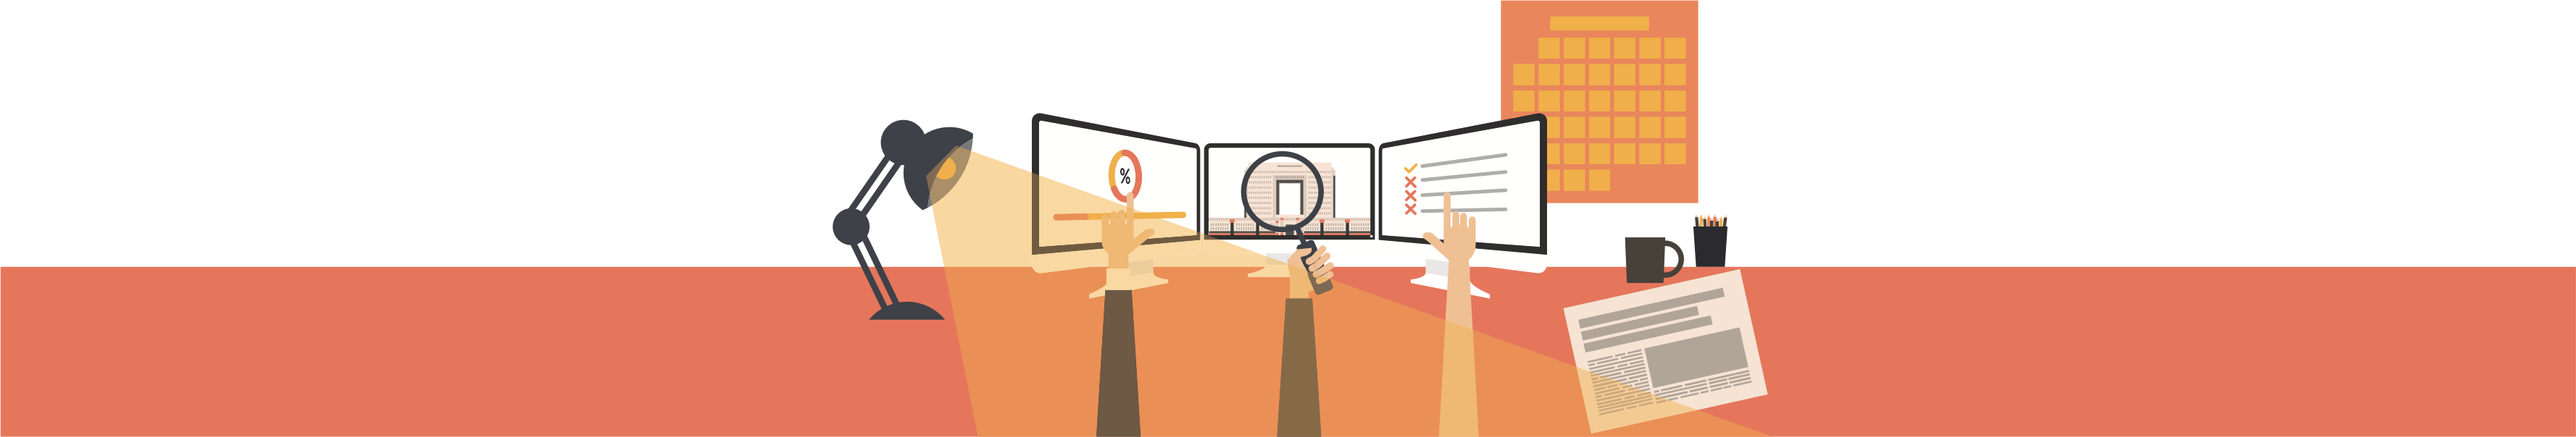
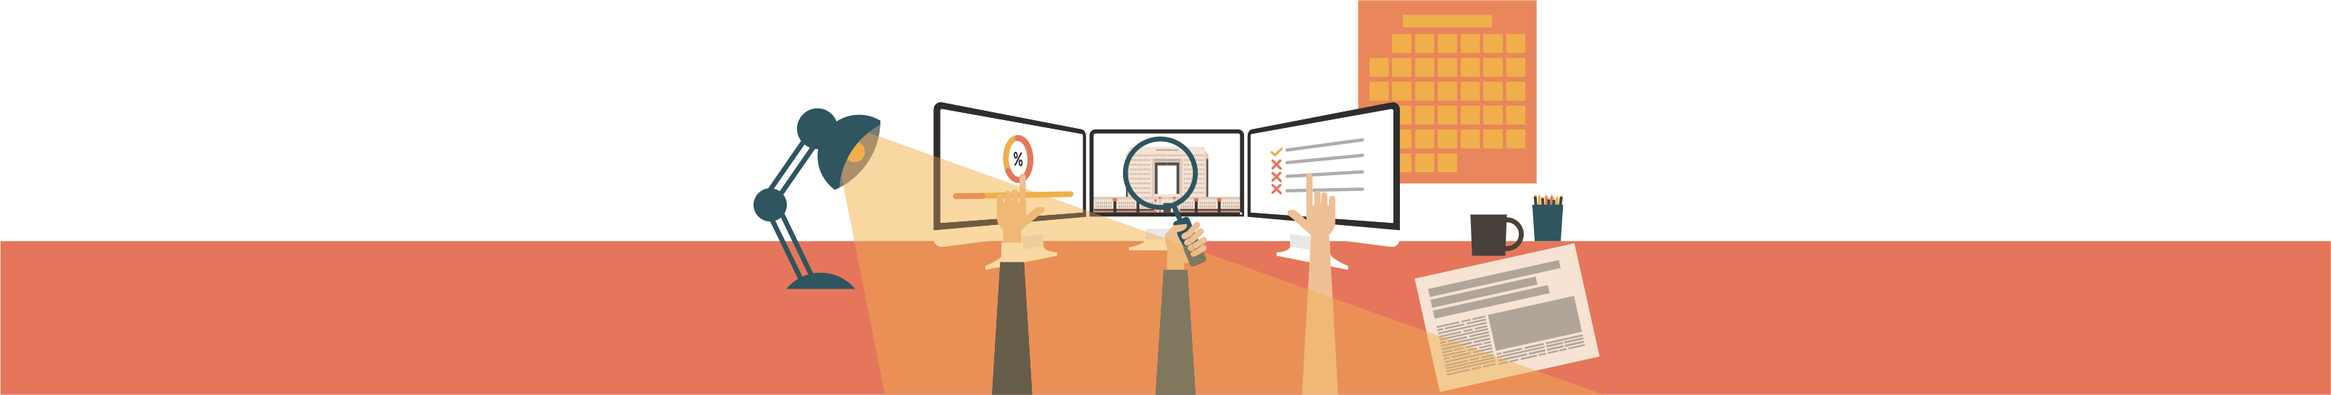
Change welcome background image

diff --git a/_sass/_base.scss b/_sass/_base.scss
@@ -243,7 +243,7 @@ small {
 
 #welcome {
     background-position: center;
-    background-position-y: 30px;
+    background-position-y: 70px;
     background-repeat: no-repeat;
     max-height: 780px;
     background-image: url(../img/header.png);
@@ -801,7 +801,7 @@ footer:before {
 @media screen and (max-width: 600px) {
   #welcome {
     background-position: center;
-    background-position-y: 180px;
+    background-position-y: 250px;
   }
 }
 
